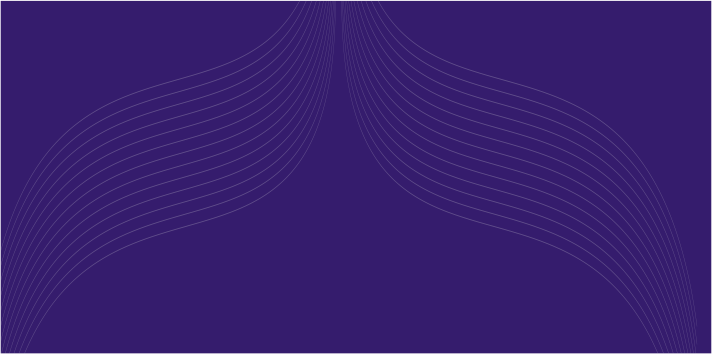
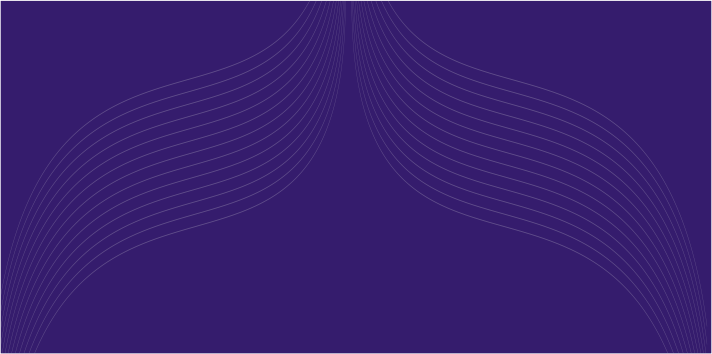
okk

diff --git a/login.html b/login.html
@@ -36,7 +36,9 @@
     .login-header {
       background-color: var(--primary-color);
       background-image: url(asset/Login_bg.png);
-        background-size: cover;
+      background-size: cover;
+      background-repeat: no-repeat;
+      background-position: center;
       color: white;
       padding: 1.5rem;
       text-align: center;
